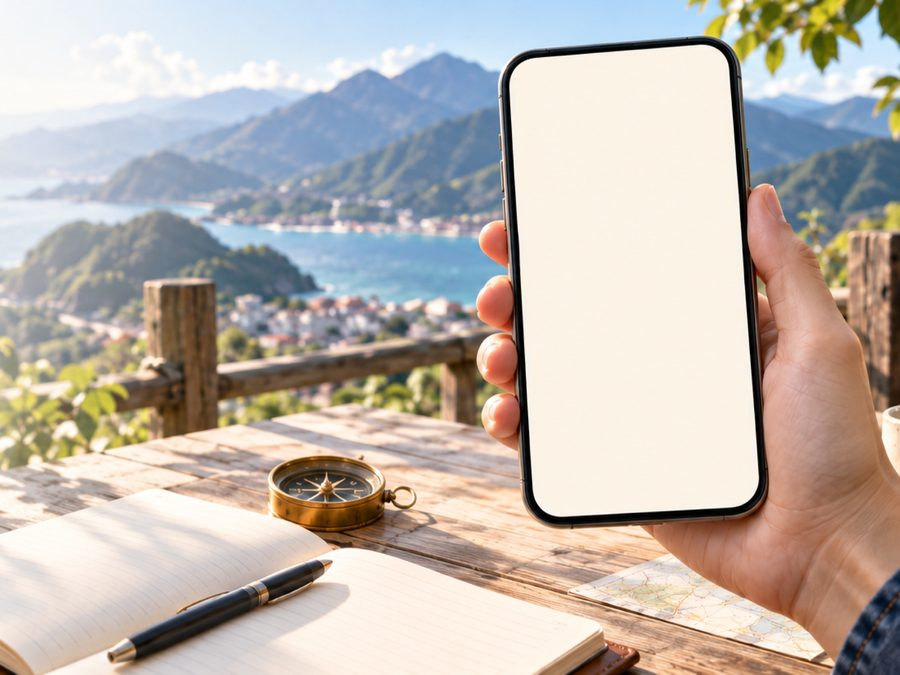
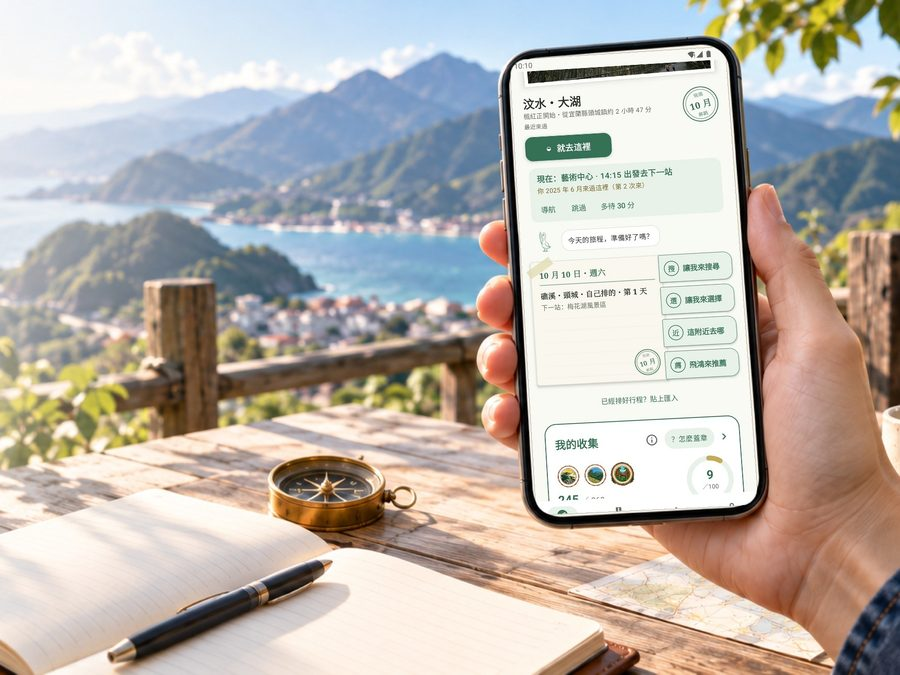
飛鴻頁：App 真實畫面改為合成進主視覺照片（手機寬度不再錯位）；手機版縮小主視覺下方留白、引言避免單字斷行；links 飛鴻卡同步

Changed region(s): [[0.56, 0.0622, 0.84, 0.7778]]

diff --git a/journey/index.html b/journey/index.html
@@ -3,7 +3,7 @@
 <main id="main">
 <div id="trip-note" class="trip-note" hidden><div class="wrap"><p>朋友分享了一趟行程給你。安裝飛鴻後，再點一次朋友傳來的連結，就能在 App 裡打開。</p><a class="btn" href="/journey/download/#download"><span>下載飛鴻</span><span aria-hidden="true">↓</span></a></div></div>
 <div class="breadcrumb wrap"><a href="/#work">所有作品</a><span>/ 飛鴻</span></div>
-<section class="jhero" style="padding:0"><div class="jstage"><div class="jinner"><picture><source srcset="/assets/v5/journey/hero.webp" type="image/webp"><img class="jbg" src="/assets/v5/journey/hero.jpg" alt="山海景前，一隻手拿著手機，木桌上有筆記本、指南針與筆" width="2000" height="867" decoding="async"></picture><img class="jscreen" src="/journey/shots/00-home.jpg" alt="飛鴻實際畫面：首頁" width="720" height="1600"></div></div><div class="jcopy"><p class="eyebrow">TRAVEL · STAMPS · MEMORIES <span>|</span> <span>Android 體驗版</span></p><h1>飛鴻</h1><h2>拉一下就出發，走過的都留下。</h2><p class="lead">不知道去哪的時候，拉一下；想好要去了，幾秒排好一整趟。到了現場蓋一枚章，回家把走過的鄉鎮點亮。飛鴻替你排路，也替你記住路。</p><div class="hero-actions"><a class="btn" href="/journey/download/"><span>看完整介紹與下載</span><span aria-hidden="true">→</span></a><a class="btn ghost" href="/journey/download/#video"><span>先看 4 分半影片</span><span aria-hidden="true">▶</span></a></div><p class="platform">Android（iPhone 即將推出）</p></div></section>
+<section class="jhero" style="padding:0"><div class="jstage"><div class="jinner"><picture><source srcset="/assets/v5/journey/hero.webp" type="image/webp"><img class="jbg" src="/assets/v5/journey/hero.jpg" alt="山海景前，一隻手拿著手機，木桌上有筆記本、指南針與筆" width="2000" height="867" decoding="async"></picture></div></div><div class="jcopy"><p class="eyebrow">TRAVEL · STAMPS · MEMORIES <span>|</span> <span>Android 體驗版</span></p><h1>飛鴻</h1><h2>拉一下就出發，走過的都留下。</h2><p class="lead">不知道去哪的時候，拉一下；想好要去了，幾秒排好一整趟。到了現場蓋一枚章，回家把走過的鄉鎮點亮。飛鴻替你排路，也替你記住路。</p><div class="hero-actions"><a class="btn" href="/journey/download/"><span>看完整介紹與下載</span><span aria-hidden="true">→</span></a><a class="btn ghost" href="/journey/download/#video"><span>先看 4 分半影片</span><span aria-hidden="true">▶</span></a></div><p class="platform">Android（iPhone 即將推出）</p></div></section>
 <section id="play" class="journey-play"><div class="wrap"><div class="journey-play-intro"><h2>應似飛鴻踏雪泥。</h2><p>蘇軾說，人生到處留下的痕跡，像飛鴻踩在雪上的腳印。<br>飛鴻想做的，就是讓你每一趟出門，都留下一點什麼。</p></div><div class="journey-appeal"><article><picture><source srcset="/assets/v5/journey/step1.webp" type="image/webp"><img src="/assets/v5/journey/step1.jpg" alt="木桌上的筆電、咖啡與筆記本，一隻手在寫字" width="1200" height="900" loading="lazy" decoding="async"></picture><div class="atxt"><small>出發前</small><h3>不用查一整晚</h3><p>拉一下決定去哪，按一下排好整趟，不喜歡的那一站往右滑就換掉。</p></div></article><article><picture><source srcset="/assets/v5/journey/step2.webp" type="image/webp"><img src="/assets/v5/journey/step2.jpg" alt="一隻手在手帳上蓋下地點章" width="1200" height="900" loading="lazy" decoding="async"></picture><div class="atxt"><small>在路上</small><h3>到了就蓋章</h3><p>走到現場打開飛鴻，就能蓋下那裡的章；越難到的地方，章越稀有。</p></div></article><article><picture><source srcset="/assets/v5/journey/step3.webp" type="image/webp"><img src="/assets/v5/journey/step3.jpg" alt="背著背包的人望向山與河谷" width="1200" height="900" loading="lazy" decoding="async"></picture><div class="atxt"><small>回來後</small><h3>走過的會亮起來</h3><p>點亮台灣 368 個鄉鎮，旅程做成影片、手帳和明信片。</p></div></article></div></div></section>
 <section class="cta jcta" style="padding:76px 0"><picture><source srcset="/assets/v5/journey/footer.webp" type="image/webp"><img src="/assets/v5/journey/footer.jpg" alt="" width="2000" height="533" loading="lazy" decoding="async"></picture><picture class="jgoose"><source srcset="/assets/v5/journey/goose.webp" type="image/webp"><img src="/assets/v5/journey/goose.png" alt="" width="512" height="541" loading="lazy" decoding="async"></picture><div class="in"><h2>先拉一下，看看今天去哪。</h2><a class="btn" href="/journey/download/#download"><span>下載 Android 體驗版</span><span aria-hidden="true">↓</span></a></div></section>
 </main>

diff --git a/journey/journey.css b/journey/journey.css
@@ -28,7 +28,7 @@
 .journey-play-intro{text-align:center;padding:64px 0 36px}
 .journey-play-intro h2{display:flex;align-items:center;gap:28px;justify-content:center;margin:0 0 20px}
 .journey-play-intro h2:before,.journey-play-intro h2:after{content:"";height:1px;background:var(--ink);opacity:.5;flex:1;max-width:260px}
-.journey-play-intro p{font-family:var(--serif);font-size:clamp(15px,1.5vw,19px);line-height:2;margin:0;color:var(--ink)}
+.journey-play-intro p{text-wrap:balance;font-family:var(--serif);font-size:clamp(15px,1.5vw,19px);line-height:2;margin:0;color:var(--ink)}
 .journey-appeal{display:grid;grid-template-columns:repeat(3,1fr);gap:20px}
 .journey-appeal article{background:var(--card);border:1px solid var(--line);border-radius:12px;padding:10px 10px 22px;box-shadow:0 2px 10px rgba(14,42,59,.04)}
 .journey-appeal article img{width:100%;height:auto;aspect-ratio:4/3;object-fit:cover;border-radius:8px;background:#e8dfcc}
@@ -44,11 +44,13 @@
  .jstage{height:min(72vw,360px)}
  .jinner{position:absolute;right:0;top:0;width:auto;height:100%;aspect-ratio:2000/867}
  .jhero:before{display:none}
- .jcopy{position:static;width:calc(100% - 32px);margin:0 auto;padding:22px 0 34px}
+ .jcopy{position:static;width:calc(100% - 32px);margin:0 auto;padding:22px 0 8px}
  .jcopy h1{font-size:clamp(46px,13vw,60px)}
  .jcopy h2{font-size:24px}.jcopy .lead{font-size:15px}
  .hero-actions .btn{width:100%;max-width:340px;justify-content:center}
- .journey-play-intro{padding:40px 0 22px}
+ .journey-play-intro{padding:24px 0 20px}
+ .journey-play-intro p{font-size:15px;line-height:1.9}
+ .journey-play-intro h2{gap:14px;font-size:clamp(26px,7.5vw,34px)}
  .journey-appeal{grid-template-columns:1fr;gap:14px}
  .jgoose{left:12px;right:auto;width:84px;bottom:4px}
 }

diff --git a/assets/v5/journey/compose_phone.py b/assets/v5/journey/compose_phone.py
@@ -1,0 +1,32 @@
+"""把真實 App 截圖合成進 hero 照片裡的手機空白螢幕（透視貼合＋圓角），輸出 hero_phone.jpg。
+用法：JOURNEY_SRC=<素材資料夾> python3 compose_phone.py   （素材資料夾含 hero.jpg；截圖用本 repo 的 journey/shots/00-home.jpg）"""
+import os
+from PIL import Image, ImageDraw, ImageFilter
+HERE=os.path.dirname(os.path.abspath(__file__)); ROOT=os.path.abspath(os.path.join(HERE,'..','..','..'))
+src=os.environ['JOURNEY_SRC']
+hero=Image.open(os.path.join(src,'hero.jpg')).convert('RGB')        # 3000x1300
+shot=Image.open(os.path.join(ROOT,'journey','shots','00-home.jpg')).convert('RGB')
+# 螢幕四角（hero 3000 寬座標，量測自空白螢幕邊緣，向內縮 3px）：左上、右上、右下、左下
+Q=[(2061,116),(2476,90),(2540,972),(2113,992)]
+sw,sh=shot.size; ratio=((Q[3][1]-Q[0][1]+Q[2][1]-Q[1][1])/2)/((Q[1][0]-Q[0][0]+Q[2][0]-Q[3][0])/2)
+crop_h=min(sh,round(sw*ratio)); shot=shot.crop((0,0,sw,crop_h)); sw,sh=shot.size
+def solve(A,b):
+    n=len(b); M=[row[:]+[b[i]] for i,row in enumerate(A)]
+    for c in range(n):
+        p=max(range(c,n),key=lambda r:abs(M[r][c])); M[c],M[p]=M[p],M[c]
+        for r in range(n):
+            if r!=c:
+                f=M[r][c]/M[c][c]; M[r]=[a-f*bb for a,bb in zip(M[r],M[c])]
+    return [M[i][n]/M[i][i] for i in range(n)]
+# 目的四角 → 來源四角（PIL 的 PERSPECTIVE 是由輸出座標找輸入座標）
+S=[(0,0),(sw,0),(sw,sh),(0,sh)]; A=[];b=[]
+for (x,y),(u,v) in zip(Q,S):
+    A.append([x,y,1,0,0,0,-u*x,-u*y]); b.append(u)
+    A.append([0,0,0,x,y,1,-v*x,-v*y]); b.append(v)
+co=solve(A,b)
+W,H=hero.size
+warp=shot.transform((W,H),Image.PERSPECTIVE,co,Image.BICUBIC)
+m=Image.new('L',(sw,sh),0); r=int(sw*0.075); ImageDraw.Draw(m).rounded_rectangle((0,0,sw-1,sh-1),r,fill=255)
+mask=m.transform((W,H),Image.PERSPECTIVE,co,Image.BICUBIC).filter(ImageFilter.GaussianBlur(0.8))
+out=hero.copy(); out.paste(warp,(0,0),mask)
+dst=os.path.join(src,'hero_phone.jpg'); out.save(dst,quality=92); print(dst)

diff --git a/assets/v5/journey/build_assets.py b/assets/v5/journey/build_assets.py
@@ -12,11 +12,13 @@ def save(im,n):
     im.save(f'{out}/{n}.jpg',quality=82,optimize=True,progressive=True);im.save(f'{out}/{n}.webp',quality=82,method=6);print('ok',n,im.size)
 for n,w in [('hero',2000),('footer',2000),('step1',1200),('step2',1200),('step3',1200)]:
     p=os.path.join(src,n+'.jpg')
+    if n=='hero' and os.path.exists(os.path.join(src,'hero_phone.jpg')): p=os.path.join(src,'hero_phone.jpg')
     if not os.path.exists(p):print('缺',n);continue
     save(rs(Image.open(p).convert('RGB'),w),n)
 p=os.path.join(src,'goose_去背.png')
 g=rs(Image.open(p).convert('RGBA'),512)
 g.save(f'{out}/goose.png',optimize=True);g.save(f'{out}/goose.webp',quality=85,method=6);print('ok goose',g.size)
-h=Image.open(os.path.join(src,'hero.jpg')).convert('RGB')  # 3000x1300
+hp=os.path.join(src,'hero_phone.jpg')  # compose_phone.py 合成真實 App 畫面後的版本
+h=Image.open(hp if os.path.exists(hp) else os.path.join(src,'hero.jpg')).convert('RGB')  # 3000x1300
 box=(1080,0,1080+1733,1300)  # 4:3，含手機與山海
 c=h.crop(box).resize((900,675),Image.LANCZOS);save(c,'card')
